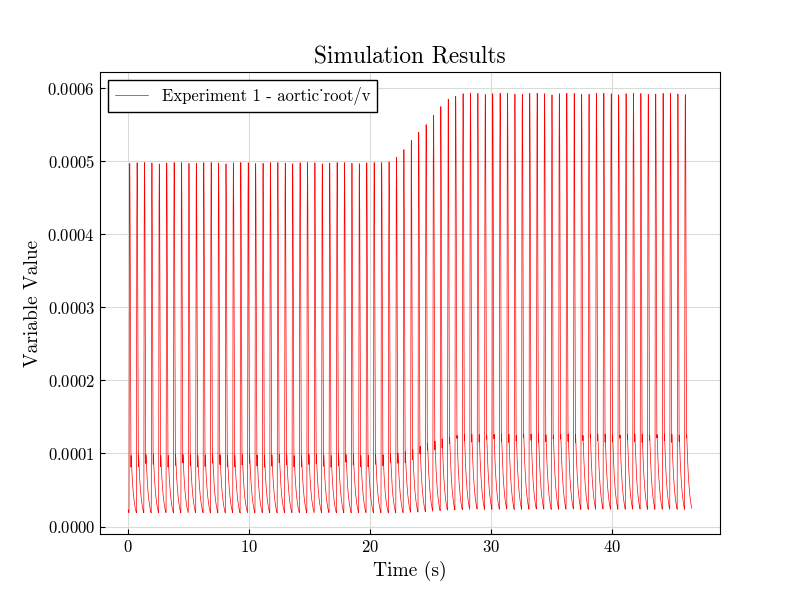
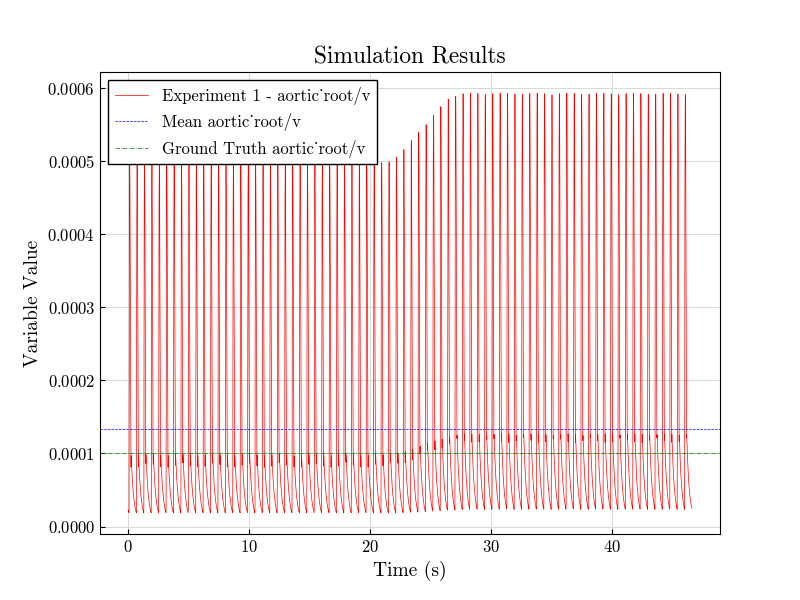
added a mean but now want to implement mean for pre and post

Changed region(s): [[0.125, 0.18, 0.5, 0.3]]

diff --git a/gitdir/src/utilities/prediction.py b/gitdir/src/utilities/prediction.py
@@ -1,5 +1,7 @@
 from protocol_funcs import run_protocols
 import matplotlib.pyplot as plt
+import pandas as pd
+import numpy as np
 
 protocol_info = {"protocol_info":
 { "pre_times": [20.791666666],
@@ -14,14 +16,24 @@ model_path = "/hpc/vken399/Examensprojekt_hpc/CA_user/3compartment/generated_mod
 
 parameters_to_plot = ["aortic_root/v"]
 
-t_list, res_list = run_protocols(model_path,parameters_to_plot, protocol_info['protocol_info'])
+t_list, res_list = run_protocols(model_path, parameters_to_plot, protocol_info['protocol_info'])
+
+# Load ground truth data
+ground_truth = pd.read_csv('ground_truth.csv')
 
 # Plot the results
 plt.figure(figsize=(8, 6))
 
 for exp_idx, (t_vec, res_vec) in enumerate(zip(t_list, res_list)):
     for var_idx, var_data in enumerate(res_vec):
+        mean_val = np.mean(var_data)
         plt.plot(t_vec, var_data, label=f"Experiment {exp_idx + 1} - {parameters_to_plot[var_idx]}", color=protocol_info['protocol_info']['experiment_colors'][exp_idx])
+        plt.axhline(mean_val, linestyle='--', color='blue', label=f"Mean {parameters_to_plot[var_idx]}")
+
+        # Plot ground truth if variable exists in CSV
+        if parameters_to_plot[var_idx] in ground_truth.columns:
+            ground_truth_val = ground_truth[parameters_to_plot[var_idx]].values[0]
+            plt.axhline(ground_truth_val, linestyle='-.', color='green', label=f"Ground Truth {parameters_to_plot[var_idx]}")
 
 plt.xlabel('Time (s)')
 plt.ylabel('Variable Value')
